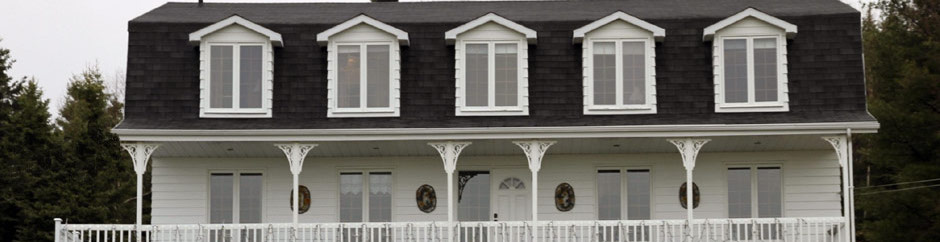
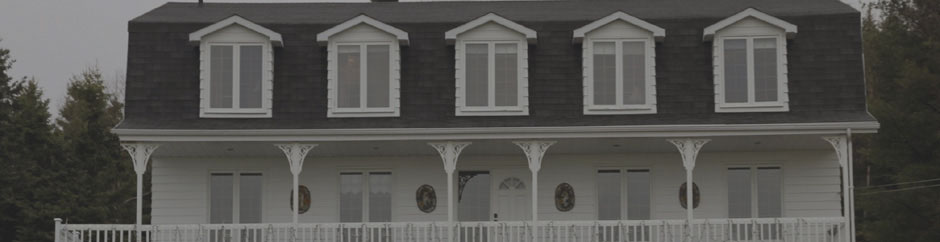
font update and image grey out

diff --git a/auxlacernes/en/index.html b/auxlacernes/en/index.html
@@ -15,7 +15,8 @@ License URL: http://creativecommons.org/licenses/by/3.0/
 <link href="../css/bootstrap.css" rel='stylesheet' type='text/css' />
 <link href="../css/style.css" rel='stylesheet' type='text/css' />
 <script src="../js/jquery-1.11.0.min.js"></script>
-<link href='http://fonts.googleapis.com/css?family=Exo:100,200,300,400,500,600,700,800,900,100italic,200italic,300italic,400italic,500italic,600italic,700italic,800italic,900italic' rel='stylesheet' type='text/css'>
+<!--<link href='http://fonts.googleapis.com/css?family=Exo:100,200,300,400,500,600,700,800,900,100italic,200italic,300italic,400italic,500italic,600italic,700italic,800italic,900italic' rel='stylesheet' type='text/css'>-->
+<link href="https://fonts.googleapis.com/css?family=Arvo|Open+Sans" rel="stylesheet">
 <!---- start-smoth-scrolling---->
 <script type="text/javascript" src="../js/move-top.js"></script>
 <script type="text/javascript">

diff --git a/auxlacernes/en/about.html b/auxlacernes/en/about.html
@@ -15,7 +15,8 @@ License URL: http://creativecommons.org/licenses/by/3.0/
 <link href="../css/bootstrap.css" rel='stylesheet' type='text/css' />
 <link href="../css/style.css" rel='stylesheet' type='text/css' />
 <script src="../js/jquery-1.11.0.min.js"></script>
-<link href='http://fonts.googleapis.com/css?family=Exo:100,200,300,400,500,600,700,800,900,100italic,200italic,300italic,400italic,500italic,600italic,700italic,800italic,900italic' rel='stylesheet' type='text/css'>
+<link href="https://fonts.googleapis.com/css?family=Arvo|Open+Sans" rel="stylesheet">
+
 <!---- start-smoth-scrolling---->
 <script type="text/javascript" src="../js/move-top.js"></script>
 <script type="text/javascript">

diff --git a/auxlacernes/en/contact.html b/auxlacernes/en/contact.html
@@ -15,7 +15,7 @@ License URL: http://creativecommons.org/licenses/by/3.0/
 <link href="../css/bootstrap.css" rel='stylesheet' type='text/css' />
 <link href="../css/style.css" rel='stylesheet' type='text/css' />
 <script src="../js/jquery-1.11.0.min.js"></script>
-<link href='http://fonts.googleapis.com/css?family=Exo:100,200,300,400,500,600,700,800,900,100italic,200italic,300italic,400italic,500italic,600italic,700italic,800italic,900italic' rel='stylesheet' type='text/css'>
+<link href="https://fonts.googleapis.com/css?family=Arvo|Open+Sans" rel="stylesheet">
 <!---- start-smoth-scrolling---->
 <script type="text/javascript" src="../js/move-top.js"></script>
 <script type="text/javascript">

diff --git a/auxlacernes/about.html b/auxlacernes/about.html
@@ -15,7 +15,8 @@ License URL: http://creativecommons.org/licenses/by/3.0/
 <link href="css/bootstrap.css" rel='stylesheet' type='text/css' />
 <link href="css/style.css" rel='stylesheet' type='text/css' />
 <script src="js/jquery-1.11.0.min.js"></script>
-<link href='http://fonts.googleapis.com/css?family=Exo:100,200,300,400,500,600,700,800,900,100italic,200italic,300italic,400italic,500italic,600italic,700italic,800italic,900italic' rel='stylesheet' type='text/css'>
+<link href="https://fonts.googleapis.com/css?family=Arvo|Open+Sans" rel="stylesheet">
+
 <!---- start-smoth-scrolling---->
 <script type="text/javascript" src="js/move-top.js"></script>
 <script type="text/javascript">

diff --git a/auxlacernes/contact.html b/auxlacernes/contact.html
@@ -15,7 +15,8 @@ License URL: http://creativecommons.org/licenses/by/3.0/
 <link href="css/bootstrap.css" rel='stylesheet' type='text/css' />
 <link href="css/style.css" rel='stylesheet' type='text/css' />
 <script src="js/jquery-1.11.0.min.js"></script>
-<link href='http://fonts.googleapis.com/css?family=Exo:100,200,300,400,500,600,700,800,900,100italic,200italic,300italic,400italic,500italic,600italic,700italic,800italic,900italic' rel='stylesheet' type='text/css'>
+<link href="https://fonts.googleapis.com/css?family=Arvo|Open+Sans" rel="stylesheet">
+
 <!---- start-smoth-scrolling---->
 <script type="text/javascript" src="js/move-top.js"></script>
 <script type="text/javascript">

diff --git a/auxlacernes/index.html b/auxlacernes/index.html
@@ -15,7 +15,8 @@ License URL: http://creativecommons.org/licenses/by/3.0/
 <link href="css/bootstrap.css" rel='stylesheet' type='text/css' />
 <link href="css/style.css" rel='stylesheet' type='text/css' />
 <script src="js/jquery-1.11.0.min.js"></script>
-<link href='http://fonts.googleapis.com/css?family=Exo:100,200,300,400,500,600,700,800,900,100italic,200italic,300italic,400italic,500italic,600italic,700italic,800italic,900italic' rel='stylesheet' type='text/css'>
+<link href="https://fonts.googleapis.com/css?family=Arvo|Open+Sans" rel="stylesheet">
+
 <!---- start-smoth-scrolling---->
 <script type="text/javascript" src="js/move-top.js"></script>
 <script type="text/javascript">

diff --git a/auxlacernes/css/style.css b/auxlacernes/css/style.css
@@ -9,7 +9,7 @@ h1, h2, h3 {margin-top: 0;}
 ul, ol {margin: 0;}
 p {margin: 0;}
 html, body{
-   font-family: 'Exo', sans-serif;
+   font-family: 'Arvo', sans-serif;
    font-size: 100%;
    background:#fff;
 }
@@ -1203,6 +1203,9 @@ img.port-pic {
 }
 .team-top-left img {
 	width: 100%;
+}
+.team-top-left {
+	padding-bottom: 15px;
 }
 .team-top {
 	margin-top: 3em;
